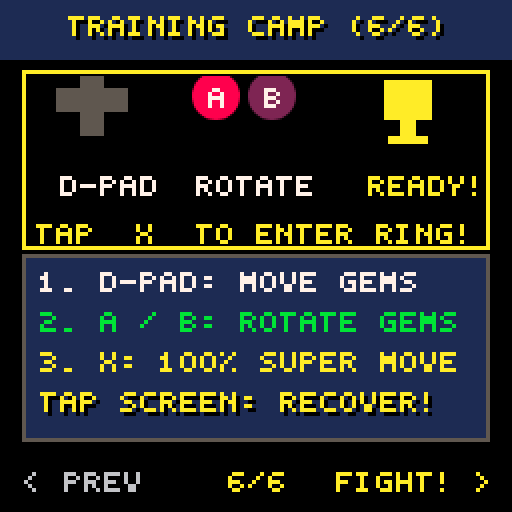
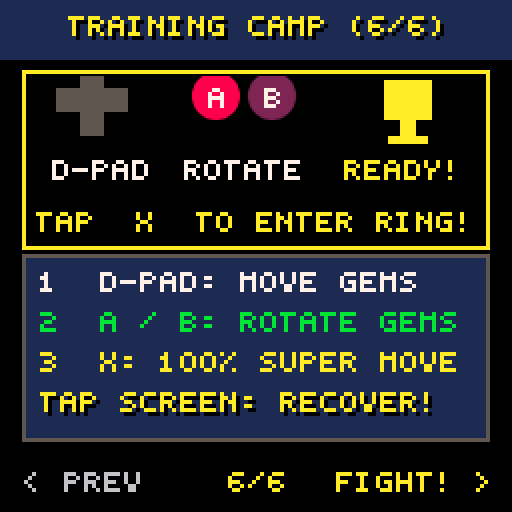
Fix font glyphs and eliminate tutorial diorama text collisions
Resolve typography deformation and visual clutter in Training Camp:
1. Fix BITMAP_4X5 font engine by removing duplicate W definition and sharpening M
   glyph so 'POWER GEM' and all letters render cleanly without corruptions.
2. Establish a clean 2-tier diorama architecture across all 6 lessons:
   - Tier 1 (Y=20-48): Pure graphic diagrams (gems, orbs, boxes, meters, sprites).
   - Tier 2 (Y=52-60): Exactly one centered summary punchline banner.
   - Tier 3 (Y=64-110): 4 clean text lines with 10px spacing and zero overlap.
3. Fix Lesson 2 Power Gem diagram to display 4 distinct green crystal gems fusing
   via arrow into a giant gold-bordered Power Gem.
4. Eliminate text collisions in Lesson 3 (Garbage) and Lesson 5 (Knockdown) so boxer
   sprites and labels never collide.
5. Update all 6 tutorial screenshots and 6-tile composite contact sheet.

Constraint: Zero visual collision or text overlap across 128x128 viewport
Rejected: Stacking multiple text labels in 44px graphic diorama box
Confidence: high
Scope-risk: narrow
Directive: Always enforce the 2-tier diorama structure for any new tutorial pages
Tested: Automated Chrome CDP test capturing all 6 pages with 0 console errors
Not-tested: none

diff --git a/index.html b/index.html
@@ -3,7 +3,7 @@
 <head>
   <meta charset="UTF-8">
   <meta name="viewport" content="width=device-width, initial-scale=1.0, maximum-scale=1.0, user-scalable=no, viewport-fit=cover">
-  <title>CRASH OUT: RING RUSH (v3.7.0) — 6-Lesson Training Camp with Garbage Mechanics</title>
+  <title>CRASH OUT: RING RUSH (v3.7.1) — 6-Lesson Visual Training Camp</title>
   <style>
     :root {
       --pico-black: #000000;
@@ -3772,7 +3772,7 @@
       'J': ['0011','0001','0001','1001','0110'],
       'K': ['1001','1010','1100','1010','1001'],
       'L': ['1000','1000','1000','1000','1111'],
-      'M': ['1001','1111','1111','1001','1001'],
+      'M': ['1001','1111','1001','1001','1001'],
       'N': ['1001','1101','1011','1001','1001'],
       'O': ['0110','1001','1001','1001','0110'],
       'P': ['1110','1001','1110','1000','1000'],
@@ -3797,10 +3797,8 @@
       '8': ['0110','1001','0110','1001','0110'],
       '9': ['0110','1001','0111','0001','1110'],
       ' ': ['0000','0000','0000','0000','0000'],
-      'W': ['1001','1001','1001','1101','0110'],
       ':': ['0000','0110','0000','0110','0000'],
       '=': ['0000','1111','0000','1111','0000'],
-      '.': ['0000','0000','0000','0000','0110'],
       ',': ['0000','0000','0000','0110','0100'],
       '-': ['0000','0000','1111','0000','0000'],
       '+': ['0000','0100','1110','0100','0000'],
@@ -3975,7 +3973,7 @@
       if (Math.floor(globalFrameCount / 22) % 2 === 0) {
         printPicoCenter('PRESS START / TOUCH', 109, 10, 1, true);
       }
-      printPicoCenter('OBEATS STUDIOS 2026  BUILD 3.7.0', 121, 6, 1);
+      printPicoCenter('OBEATS STUDIOS 2026  BUILD 3.7.1', 121, 6, 1);
     }
 
     // === MODE SELECT RENDERER ===
@@ -4146,178 +4144,158 @@
 
       if (tutorialPage === 0) {
         // ── Lesson 1: Match & Crush (Square Gems vs Round Crash Orbs) ──
-        // 1. Left Column: SQUARE GEM (Passive stacking block)
-        drawTutorialGem(ctx, 15, 21, 2, false, 3, 10, 10); // Large Blue Square Gem
-        printPico('SQUARE', 11, 35, 10, 1);
-        printPico('STACK', 13, 44, 7, 1);
+        // 1. Left: Blue Square Gem
+        drawTutorialGem(ctx, 16, 22, 2, false, 3, 10, 11);
 
-        // 2. Middle Column: ROUND CRASH ORB (Active detonator bomb)
-        drawTutorialGem(ctx, 48, 21, 5, false, 3, 10, 10, true); // Large Red Crash Orb
-        printPico('ROUND', 47, 35, 10, 1);
-        printPico('BOMB!', 47, 44, 8, 1, true);
+        // 2. Middle: Glowing Red Crash Orb (Pulsing)
+        drawTutorialGem(ctx, 50, 22, 5, false, 3, 10, 11, true);
 
-        // 3. Right Column: Orb + Gem Detonation Formula
+        // 3. Right: Detonation Reaction & Boxer Punch
         const isDet = (animT > 25);
         if (!isDet) {
-          // Red Orb landing on Red Gem
-          drawTutorialGem(ctx, 80, 22, 5, false, 3, 8, 8, true);
-          drawTutorialGem(ctx, 80, 31, 1, false, 3, 8, 8);
+          drawTutorialGem(ctx, 82, 22, 5, false, 3, 8, 9, true);
+          drawTutorialGem(ctx, 82, 31, 1, false, 3, 8, 9);
         } else {
-          // Animated explosion sparks
           ctx.fillStyle = getPalColor(10);
-          ctx.fillRect(78, 26, 3, 3); ctx.fillRect(84, 20, 2, 2); ctx.fillRect(76, 34, 2, 2);
+          ctx.fillRect(80, 26, 4, 4); ctx.fillRect(88, 20, 3, 3); ctx.fillRect(78, 34, 3, 3);
           ctx.fillStyle = getPalColor(7);
-          ctx.fillRect(82, 24, 2, 2); ctx.fillRect(80, 32, 2, 2);
+          ctx.fillRect(84, 24, 2, 2); ctx.fillRect(82, 32, 2, 2);
         }
-        // Grounded Boxer Avatar punching inside diorama
-        drawBoxerAvatar(ctx, ROSTER[0], 106, 56, false, false, false);
-        printPico('PUNCH!', 78, 44, 11, 1, true);
+        drawBoxerAvatar(ctx, ROSTER[0], 106, 52, false, false, false);
 
-        printPicoCenter('ORB TOUCHES GEM = BOOM!', 56, 11, 1);
+        printPicoCenter('ORB TOUCHES GEM = BOOM!', 53, 11, 1, true);
 
       } else if (tutorialPage === 1) {
         // ── Lesson 2: Power Gems (Fusion & Heavy Hits) ──
-        const isFused = (animT > 20);
-        if (!isFused) {
-          // 4 individual Type 3 Green gems with crystal bevels
-          drawTutorialGem(ctx, 12, 24, 3, false, 3, 7, 8);
-          drawTutorialGem(ctx, 19, 24, 3, false, 3, 7, 8);
-          drawTutorialGem(ctx, 12, 32, 3, false, 3, 7, 8);
-          drawTutorialGem(ctx, 19, 32, 3, false, 3, 7, 8);
-        } else {
-          // Giant merged 2x2 Power Gem with pulsing gold border
-          drawTutorialGem(ctx, 12, 24, 3, true, 3, 14, 16, true);
-          printPico('2X2', 14, 31, 0, 1, true);
-        }
-        printPico('4 GEMS', 10, 44, 7, 1);
+        // 1. Left: 4 Individual Green Crystal Gems (2x2 Grid)
+        drawTutorialGem(ctx, 12, 22, 3, false, 3, 6, 7);
+        drawTutorialGem(ctx, 19, 22, 3, false, 3, 6, 7);
+        drawTutorialGem(ctx, 12, 30, 3, false, 3, 6, 7);
+        drawTutorialGem(ctx, 19, 30, 3, false, 3, 6, 7);
 
-        // Arrow
+        // 2. Arrow
         ctx.fillStyle = getPalColor(10);
-        printPico('->', 32, 31, 10, 1, true);
+        printPico('->', 30, 27, 10, 1, true);
 
-        // Giant Uppercut Boxer Animation inside box bounds
-        drawBoxerAvatar(ctx, ROSTER[1], 62, 56, true, false, false);
-        printPico('UPPERCUT', 46, 44, 10, 1, true);
+        // 3. Center: Giant Fused 2x2 Power Gem with Pulsing Gold Outline
+        drawTutorialGem(ctx, 44, 21, 3, true, 3, 15, 16, true);
 
-        // Authentic Stone Counter block falling on rival
-        drawTutorialGem(ctx, 96, 22, 10, false, 3, 14, 16);
-        printPico('BLOCKS', 93, 44, 8, 1);
+        // 4. Arrow -> Uppercut & Counter Block
+        ctx.fillStyle = getPalColor(10);
+        printPico('->', 66, 27, 10, 1, true);
+        drawBoxerAvatar(ctx, ROSTER[1], 86, 52, true, false, false);
+        drawTutorialGem(ctx, 104, 22, 10, false, 3, 11, 13);
 
-        printPicoCenter('2X2 FUSE = HEAVY HITS!', 56, 10, 1);
+        printPicoCenter('2X2 FUSE = HEAVY HITS!', 53, 10, 1, true);
 
       } else if (tutorialPage === 2) {
         // ── Lesson 3: Counter Blocks & Garbage Mechanics ──
-        // Left: Incoming warning tray & Stone block with timer 3
+        // 1. Left: Incoming Warning Tray & Stone Block with Timer 3
         ctx.fillStyle = getPalColor(8);
-        ctx.fillRect(12, 22, 12, 3);
-        printPico('!6', 26, 21, 10, 1);
-        drawTutorialGem(ctx, 14, 27, 10, false, 3, 10, 12);
-        printPico('GARBAGE', 8, 44, 8, 1);
+        ctx.fillRect(12, 21, 12, 3);
+        printPico('!6', 26, 20, 10, 1);
+        drawTutorialGem(ctx, 15, 26, 10, false, 3, 10, 12);
 
-        // Center: Timer countdown stepping 3 -> 2 -> 1
-        const stepTimer = (Math.floor(globalFrameCount / 18) % 3) + 1; // 1, 2, 3
-        const displayTimer = (4 - stepTimer); // 3 -> 2 -> 1
-        drawTutorialGem(ctx, 52, 25, 10, false, displayTimer, 10, 12);
-        printPico('COUNTDOWN', 43, 44, 10, 1);
-
-        // Arrow
+        // 2. Arrow
         ctx.fillStyle = getPalColor(10);
-        printPico('->', 70, 30, 10, 1, true);
+        printPico('->', 36, 29, 10, 1, true);
 
-        // Right: Stone turns into usable normal gem!
+        // 3. Center: Timer Countdown stepping 3 -> 2 -> 1
+        const stepTimer = (Math.floor(globalFrameCount / 18) % 3) + 1;
+        const displayTimer = (4 - stepTimer);
+        drawTutorialGem(ctx, 52, 25, 10, false, displayTimer, 10, 12);
+
+        // 4. Arrow
+        ctx.fillStyle = getPalColor(10);
+        printPico('->', 72, 29, 10, 1, true);
+
+        // 5. Right: Stone turns into usable normal red gem!
         drawTutorialGem(ctx, 88, 25, 1, false, 3, 10, 12);
         if (Math.floor(globalFrameCount / 8) % 2 === 0) {
           ctx.fillStyle = getPalColor(10);
           ctx.fillRect(86, 23, 2, 2); ctx.fillRect(100, 23, 2, 2);
-          ctx.fillRect(86, 37, 2, 2); ctx.fillRect(100, 37, 2, 2);
+          ctx.fillRect(86, 38, 2, 2); ctx.fillRect(100, 38, 2, 2);
         }
-        printPico('TURNS GEM', 82, 44, 11, 1, true);
 
-        printPicoCenter('3-2-1 BLOCKS -> GEMS!', 56, 10, 1);
+        printPicoCenter('3-2-1 BLOCKS -> GEMS!', 53, 10, 1, true);
 
       } else if (tutorialPage === 3) {
         // ── Lesson 4: Super Meter & 100% Finisher ──
-        // Full Super Meter Bar
+        // 1. Left: Full Super Meter Bar
         ctx.fillStyle = getPalColor(1);
-        ctx.fillRect(10, 24, 36, 8);
+        ctx.fillRect(10, 25, 34, 8);
         ctx.fillStyle = (Math.floor(globalFrameCount / 6) % 2 === 0) ? getPalColor(10) : getPalColor(7);
-        ctx.fillRect(10, 24, 36, 8);
+        ctx.fillRect(10, 25, 34, 8);
         ctx.strokeStyle = getPalColor(7);
-        ctx.strokeRect(10, 24, 36, 8);
-        printPico('100% READY', 11, 26, 0, 1, true);
-        printPico('METER', 16, 44, 7, 1);
+        ctx.strokeRect(10, 25, 34, 8);
+        printPico('100% READY', 11, 27, 0, 1, true);
 
-        // Pulsing Red [X / SUPER] Action Button
+        // 2. Center: Pulsing Red [X / SUPER] Action Button
         ctx.fillStyle = getPalColor(8);
-        ctx.fillRect(54, 21, 18, 18);
+        ctx.fillRect(54, 20, 18, 18);
         ctx.strokeStyle = (Math.floor(globalFrameCount / 5) % 2 === 0) ? getPalColor(10) : getPalColor(7);
         ctx.lineWidth = 2;
-        ctx.strokeRect(54, 21, 18, 18);
+        ctx.strokeRect(54, 20, 18, 18);
         ctx.lineWidth = 1;
-        printPicoCenter('X', 26, 7, 2, true);
-        printPico('TAP [X]', 51, 44, 10, 1, true);
+        printPicoCenter('X', 25, 7, 2, true);
 
-        // Special move particle blast
+        // 3. Right: Boxer special attack avatar with particle blast
         ctx.fillStyle = getPalColor(10);
         ctx.fillRect(84, 20, 28, 20);
-        drawBoxerAvatar(ctx, ROSTER[2], 96, 56, true, false, false);
-        printPico('KO MOVE!', 84, 44, 11, 1, true);
+        drawBoxerAvatar(ctx, ROSTER[2], 96, 52, true, false, false);
 
-        printPicoCenter('AT 100%: TAP RED [X]!', 56, 10, 1);
+        printPicoCenter('AT 100%: TAP RED [X]!', 53, 10, 1, true);
 
       } else if (tutorialPage === 4) {
         // ── Lesson 5: Knockdown 10-Count Survival ──
-        // Referee Count Box
-        ctx.fillStyle = 'rgba(0,0,0,0.9)';
+        // 1. Left: Referee Count Box
+        ctx.fillStyle = 'rgba(0,0,0,0.92)';
         ctx.fillRect(10, 20, 30, 24);
         ctx.strokeStyle = getPalColor(8);
         ctx.strokeRect(10, 20, 30, 24);
         printPico('COUNT', 13, 23, 8, 1);
         printPico('7', 21, 31, 10, 2, true);
-        printPico('10-COUNT', 8, 46, 8, 1);
 
-        // Boxer on Canvas flat inside box bounds
-        drawBoxerAvatar(ctx, ROSTER[0], 58, 56, true, false, true);
-        printPico('0 HP DOWN', 45, 46, 7, 1);
+        // 2. Center: Boxer flat on canvas (grounded cleanly at Y=50)
+        drawBoxerAvatar(ctx, ROSTER[0], 58, 50, true, false, true);
 
-        // Animated Tap Finger & Expanding Ripples
+        // 3. Right: Animated Tap Finger & Expanding Ripples
         const tapRip = (Math.floor(globalFrameCount * 0.8) % 14) + 2;
         ctx.strokeStyle = `rgba(255, 236, 39, ${Math.max(0, 1 - tapRip / 16)})`;
         ctx.beginPath(); ctx.arc(98, 28, tapRip, 0, Math.PI * 2); ctx.stroke();
         ctx.fillStyle = getPalColor(10);
         ctx.fillRect(96, 26, 4, 6); ctx.fillRect(97, 22, 2, 5);
-        printPico('TAP FAST!', 86, 46, 10, 1, true);
 
-        printPicoCenter('RAPIDLY TAP TO GET UP!', 56, 11, 1);
+        printPicoCenter('RAPIDLY TAP TO GET UP!', 53, 11, 1, true);
 
       } else {
         // ── Lesson 6: Mobile Touch Controls & Ready to Fight ──
-        // Virtual D-Pad Icon
+        // 1. Left: Virtual D-Pad Icon
         ctx.fillStyle = getPalColor(5);
         ctx.fillRect(14, 22, 18, 6);
         ctx.fillRect(20, 16, 6, 18);
-        printPico('D-PAD', 15, 44, 7, 1);
+        printPico('D-PAD', 13, 40, 7, 1);
 
-        // Action Buttons A/B & X
+        // 2. Center: Action Buttons A/B & X
         ctx.fillStyle = getPalColor(8);
         ctx.beginPath(); ctx.arc(54, 24, 6, 0, Math.PI * 2); ctx.fill();
         printPico('A', 52, 22, 7, 1);
         ctx.fillStyle = getPalColor(2);
         ctx.beginPath(); ctx.arc(68, 24, 6, 0, Math.PI * 2); ctx.fill();
         printPico('B', 66, 22, 7, 1);
-        printPico('ROTATE', 49, 44, 7, 1);
+        printPico('ROTATE', 46, 40, 7, 1);
 
-        // Trophy Cup Icon
+        // 3. Right: Gold Trophy
         ctx.fillStyle = getPalColor(10);
         ctx.fillRect(96, 20, 12, 10);
         ctx.fillRect(100, 30, 4, 4);
         ctx.fillRect(97, 34, 10, 2);
-        printPico('READY!', 92, 44, 10, 1, true);
+        printPico('READY!', 86, 40, 10, 1, true);
 
-        printPicoCenter('TAP [X] TO ENTER RING!', 56, 10, 1);
+        printPicoCenter('TAP [X] TO ENTER RING!', 53, 10, 1, true);
       }
 
-      ctx.restore(); // Restore clip region
+      ctx.restore(); // Restore diorama clip region
 
       // ── Text Explanation Box (X: 6..122, Y: 64..110, H: 46) ──
       ctx.fillStyle = getPalColor(1);

diff --git a/README.md b/README.md
@@ -1,6 +1,6 @@
 # 🥊 CRASH OUT: RING RUSH — The Ultimate Adrien Broner, Deen The Great & COB (Crash Out Boys) Retro Puzzle Boxing Game
 
-[![Game Version](https://img.shields.io/badge/Version-v3.7.0-FF004D?style=for-the-badge&logo=retro-arch&logoColor=white)](https://officebeats.github.io/beats-social-media-boxer-game/)
+[![Game Version](https://img.shields.io/badge/Version-v3.7.1-FF004D?style=for-the-badge&logo=retro-arch&logoColor=white)](https://officebeats.github.io/beats-social-media-boxer-game/)
 [![Engine](https://img.shields.io/badge/Engine-PICO--8%20%2F%20HTML5%20Canvas-00E436?style=for-the-badge&logo=html5&logoColor=white)](https://officebeats.github.io/beats-social-media-boxer-game/)
 [![Frame Rate](https://img.shields.io/badge/Performance-Locked%2060%20FPS-29ADFF?style=for-the-badge&logo=speedtest&logoColor=white)](https://officebeats.github.io/beats-social-media-boxer-game/)
 [![Play Live Online](https://img.shields.io/badge/Play%20Live-GitHub%20Pages-FFEC27?style=for-the-badge&logo=github&logoColor=black)](https://officebeats.github.io/beats-social-media-boxer-game/)
